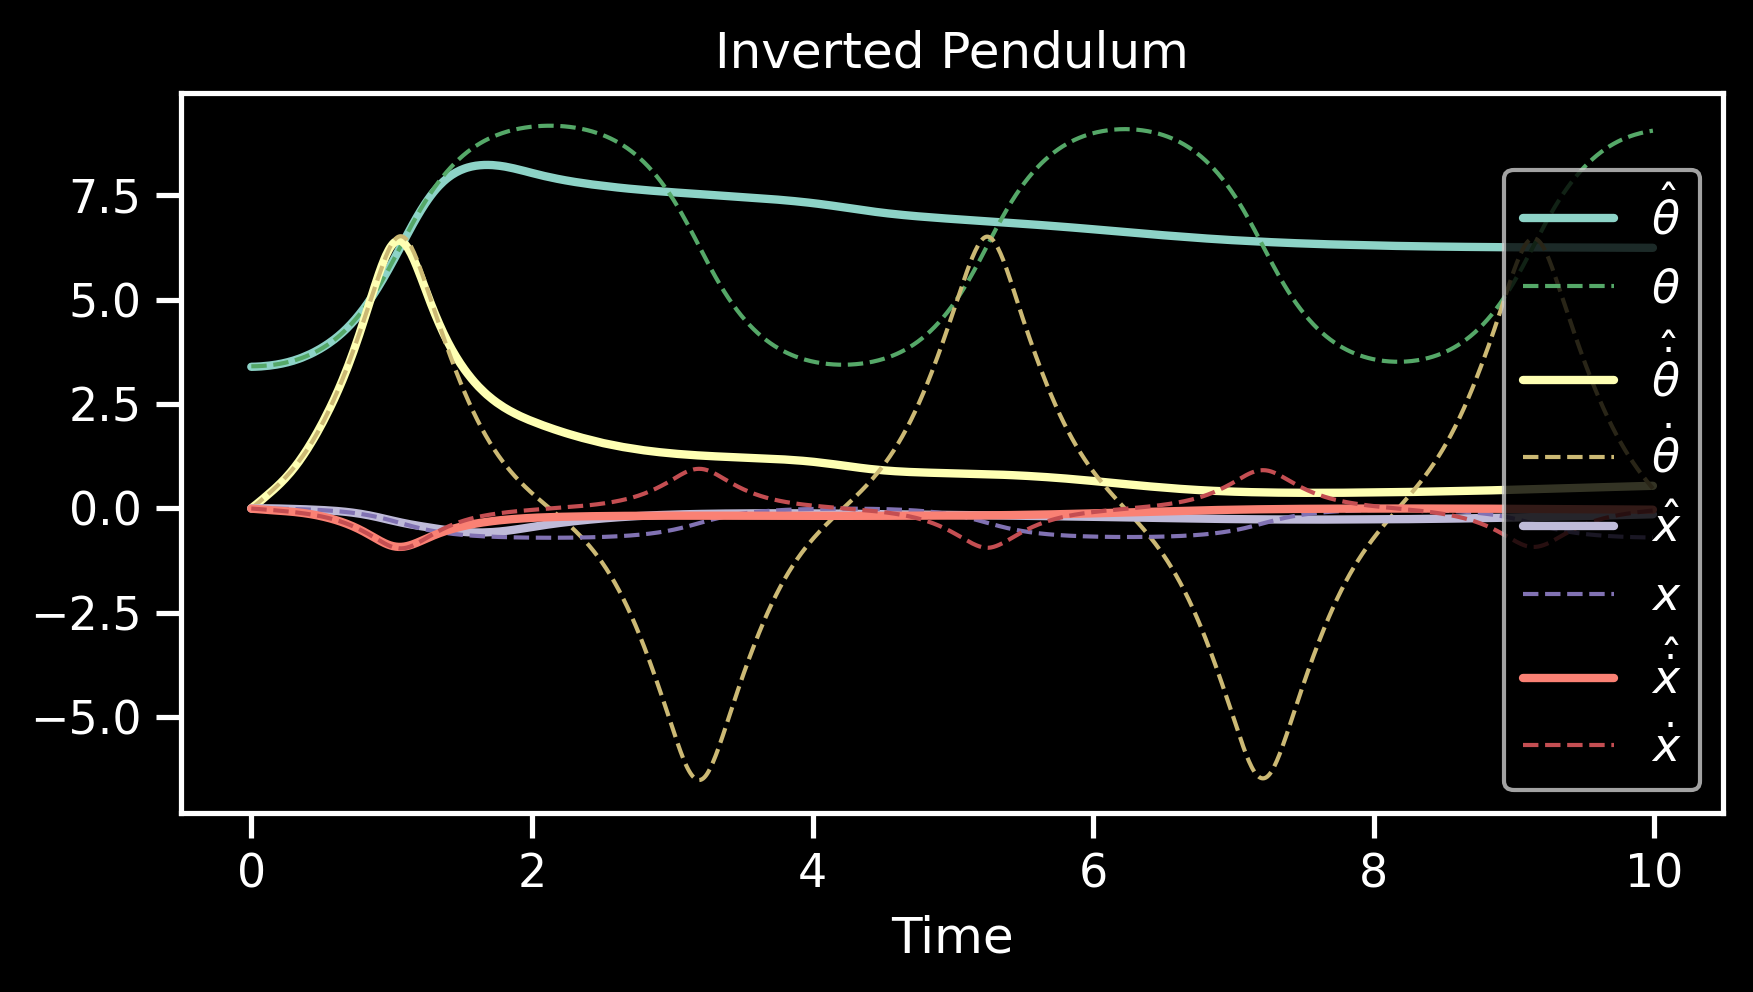
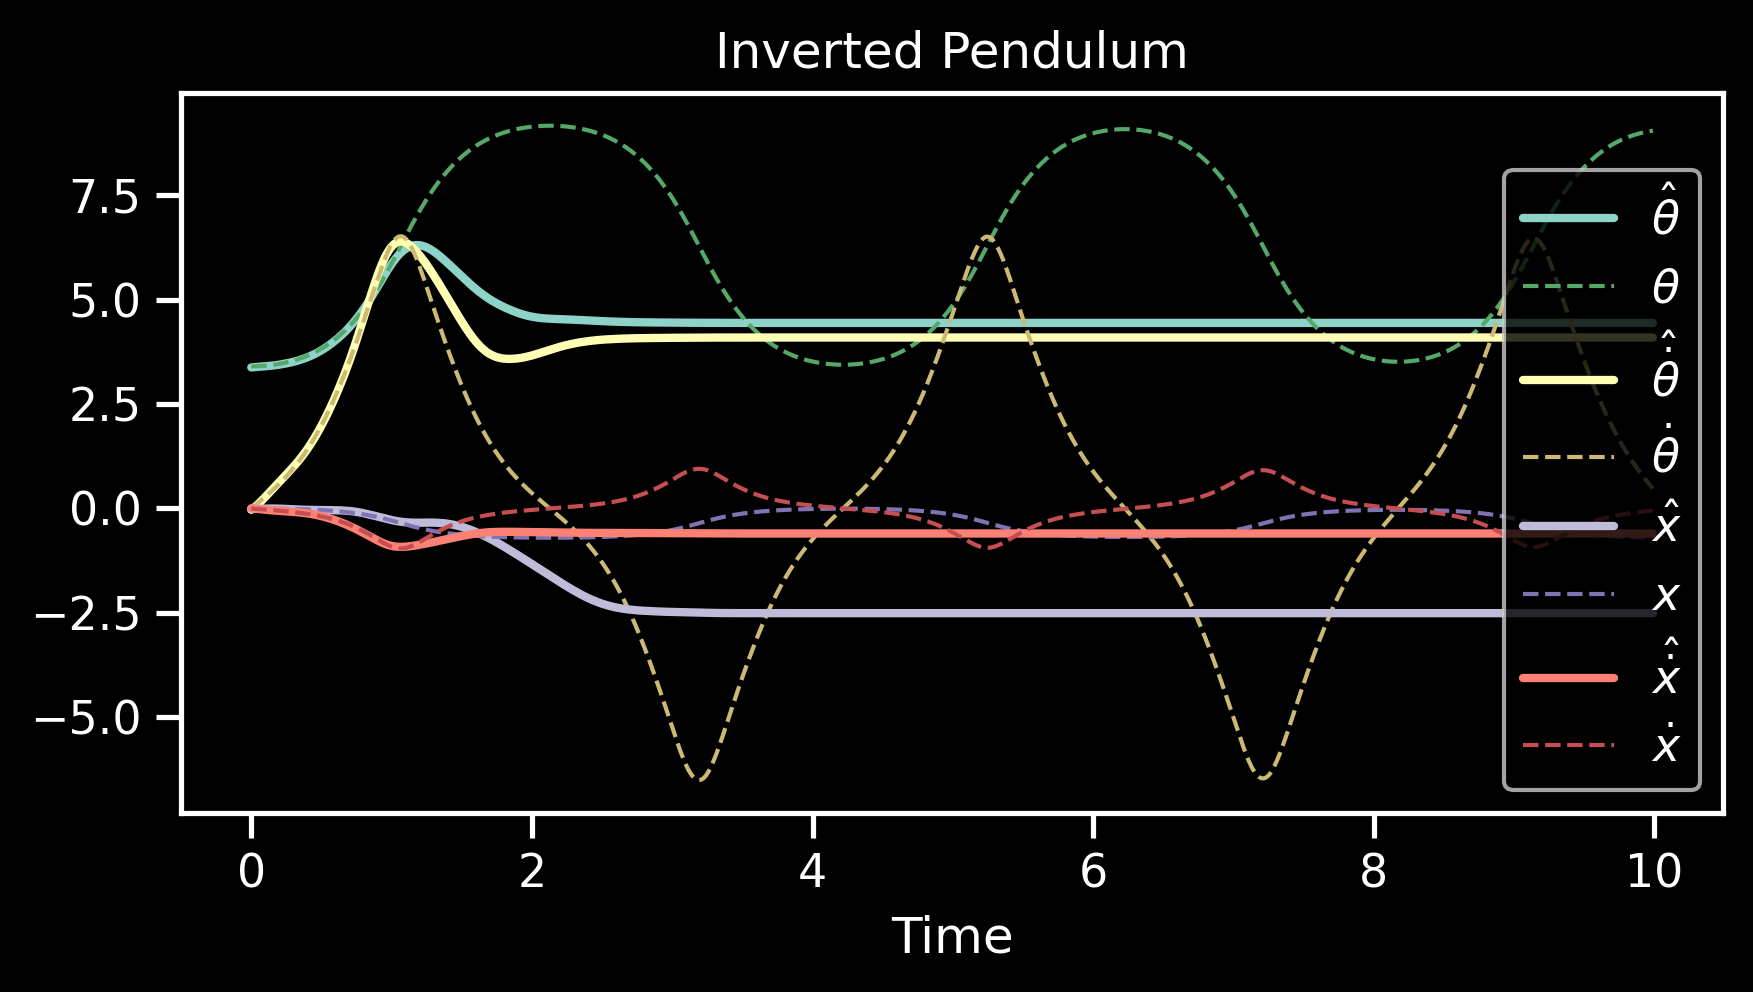
Simple vs augmented method of multipliers

diff --git a/parajax/tests/method_of_multipliers.py b/parajax/tests/method_of_multipliers.py
@@ -1,0 +1,243 @@
+#%%
+import jax
+import jax.numpy as jnp
+import numpy as np
+jax.numpy.set_printoptions(precision=6)
+
+
+
+# %% [markdown]
+
+## Simple vs Augmented Method of Multipliers
+
+# ## References
+# - **Simple method**: Augmenting Physical Models with Deep Networks for Complex Dynamics Forecasting (Yin et al., 2021) (Algorithm 1, page 7)
+# - **Augmented method**: Practical augmented Lagrangian methods for constrained optimization (Birgin and Martinez, 2014) (Algorithm 4.1, page 33)
+
+# ## Conclusions
+# - The augmented method is much more faster to convergence than the simple method
+# - The augmented method enfores equality constraints much much better
+
+
+# Cherry-picked example to highlight the benefits of the augmented method of multipliers from Birgin et al., 2014, which is compared to the simple method from https://arxiv.org/abs/2010.04456, 2021. Potential techniques to add to one's Deep Learning arsenal:  https://gist.github.com/ddrous/cd258baeaebdc29529e329f660ab3760
+
+# The augmented method is much faster, while enforcing the equality constraint h(x,y)=0 in a stronger way.
+
+# %%
+
+@jax.jit
+def f(x):   ## The function to minimize
+    x1, x2 = x
+    return (x1 - 6)**2 + x2**2
+
+@jax.jit
+def h(x):   ## The equality constraint
+    x1, x2 = x
+    return (x2-(x1/4)**2)**2 + ((x1/4)-1)**2 - 1
+
+tau1 = 1e-3 ## Actual learning rate for both methods
+tau2 = 1e-3 ## Multiplicative factor for the penalty term in the simple method, used as tau in the augmented method
+
+nb_iter_out = 200
+nb_iter_in = 100
+tol = 1e-10
+
+@jax.jit
+def inner_train_step(x, lamb, tau1, tau2):
+    return x - tau1 * (lamb*jax.grad(f)(x) + jax.grad(h)(x))
+
+@jax.jit
+def outer_train_step(x, lamb, tau1, tau2):
+    return lamb + tau2 * h(x)
+
+
+lamb = 1.2
+x = jnp.array([0.5, 3.])
+iter_count = 0
+path = [x]
+
+for out_iter in range(nb_iter_out):
+
+    x_old = x
+
+    for in_iter in range(nb_iter_in):
+        x_new = inner_train_step(x, lamb, tau1, tau2)
+
+        if jnp.linalg.norm(x_new - x) < tol:
+            break
+
+        iter_count += 1
+        x = x_new
+        path.append(x)
+
+    lamb = outer_train_step(x, lamb, tau1, tau2)
+
+    if jnp.linalg.norm(x_new - x_old) < tol:
+        break
+
+    print(f"iter {out_iter:-3d} :   x={x}   f(x)={f(x):.6f}     h(x)={h(x):+.6f}    lambda={lamb}")
+
+print(f"\nTotal number of iterations to achieve a tol of {tol} is: {iter_count}")
+
+path = jnp.vstack(path)
+
+# %%
+
+import numpy as np
+import matplotlib.pyplot as plt
+import seaborn as sns
+sns.set(context='notebook', style='ticks',
+        font='sans-serif', font_scale=1, color_codes=True, rc={"lines.linewidth": 2})
+plt.style.use("dark_background")
+from matplotlib.animation import FuncAnimation
+
+def plot_optimisation_path(path, title='Method of Multipliers'):
+
+    # Create a grid of points for contour plot
+    x = np.linspace(0, 10, 100)
+    y = np.linspace(-3, 5, 100)
+    X, Y = np.meshgrid(x, y)
+    Z = f(np.vstack([X.ravel(), Y.ravel()]))
+
+    # Reshape for contour plot
+    Z = Z.reshape(X.shape)
+
+    ## Set the size of the plt
+    plt.figure(figsize=(16, 8))
+
+    # Plot contours
+    plt.contourf(X, Y, Z, levels=30, cmap='grey')
+    plt.colorbar(label='Function Value')
+
+    Z = h(np.vstack([X.ravel(), Y.ravel()]))
+    Z = Z.reshape(X.shape)
+
+    # Plot contours
+    plt.contour(X, Y, Z, levels=4, cmap='Blues')
+    plt.colorbar(label="Constraint's countrours")
+
+    plt.plot(path[:, 0], path[:, 1], 'rX-', lw=3, markevery=100, label='Optimisation path')
+
+    # Add labels and legend
+    plt.title(title)
+    plt.xlabel(r'$x$')
+    plt.ylabel(r'$y$')
+    plt.legend()
+
+    # Show the plot
+    plt.show();
+
+# plot_optimisation_path(path)
+
+# %%
+
+@jax.jit
+def L(x, lamb, rho):
+    return f(x) + 0.5*rho*(h(x) + lamb/rho)**2
+
+@jax.jit
+def inner_train_step_(x, lamb, rho, tau1, tau2):
+    return x - tau1 * jax.grad(L)(x, lamb, rho)
+
+lamb_min, lamb_max = -10, 10
+gamma = 0.95
+
+lamb = 5.
+rho = 1.
+
+x = jnp.array([0.5, 3.])
+path_ = [x]
+iter_count = 0
+
+for k in range(nb_iter_out):
+
+    x_old = x
+
+    for i in range(nb_iter_in):
+        x_new = inner_train_step_(x, lamb, rho, tau1, tau2)
+        
+        if jnp.linalg.norm(x_new - x) < tol:
+            break
+
+        iter_count += 1
+        x = x_new
+        path_.append(x)
+
+    lamb = jnp.clip(lamb + rho*h(x_new), lamb_min, lamb_max)
+
+    norm_h_old = jnp.linalg.norm(h(x_old))
+    norm_h = jnp.linalg.norm(h(x_new))
+
+    if k==0 or norm_h_old < tau2*norm_h:
+        rho = 2*rho
+    else:
+        rho = gamma*rho
+
+    if jnp.linalg.norm(x_new - x_old) < tol:
+        break
+
+    print(f"iter: {k:-3d}   x={x}   f(x)={f(x):.6f}   h(x)={h(x):+.6f}   rho={rho:.6f}    lambda={lamb:.6f}")
+
+
+print(f"\nTotal number of iterations to achieve a tol of {tol} is: {iter_count}")
+
+path_ = jnp.vstack(path_)
+plot_optimisation_path(path_, "Method of Augmented Multipliers")
+
+
+# %%
+
+def animate_optimization_path(paths, labels=["Simple", "Augmented"], title='Simple vs Augmented Multipliers'):
+    # Create a grid of points for contour plot
+    x = np.linspace(0, 10, 100)
+    y = np.linspace(-3, 5, 100)
+    X, Y = np.meshgrid(x, y)
+
+    ## Function to minimize
+    Z = f(np.vstack([X.ravel(), Y.ravel()]))
+    Z = Z.reshape(X.shape)
+
+    ## Constraint
+    Z_ = h(np.vstack([X.ravel(), Y.ravel()]))
+    Z_ = Z_.reshape(X.shape)
+    
+    # Set the size of the plt
+    plt.figure(figsize=(12, 8))
+
+    colors = ['r', 'g', 'b', 'c', 'm', 'y', 'k', 'w']
+    skip = 100      ## TODO: change this for more fluid simulations
+
+    def update(frame):
+        plt.clf()  # Clear the plot for the next frame
+        plt.contourf(X, Y, Z, levels=50, cmap='gray')
+        plt.colorbar(label=r'Function value $f(x,y)$')
+
+        contour = plt.contour(X, Y, Z_, levels=[0], cmap='Blues')
+        plt.clabel(contour, inline=True, fontsize=8, fmt=r'$h(x,y)={:1.0f}$'.format(contour.levels[0]))
+
+        for i, path in enumerate(paths):
+            if frame < len(path):
+                plt.plot(path[:frame*skip, 0], path[:frame*skip, 1], '-', color=colors[i%8], lw=4, markevery=100, label=labels[i])
+
+                x_val, y_val = path[frame*skip, 0], path[frame*skip, 1]
+                f_val = f(np.array([x_val, y_val]))
+                h_val = h(np.array([x_val, y_val]))
+
+                plt.text(0.5+i*(3.5), 4.5+i*(-4.5-3), r'$f*={:.3f}, \quad  h*={:+.5f}$'.format(f_val, h_val), fontsize=20, color=colors[i%8], ha='left', va='bottom', weight='bold')
+
+        plt.title(title)
+        plt.xlabel(r'$x$')
+        plt.ylabel(r'$y$')
+        plt.legend()
+
+    frames = max(len(path) for path in paths)//skip
+    ani = FuncAnimation(plt.gcf(), update, frames=frames, interval=1000, repeat=False)
+
+    duration = 5  # seconds
+
+    # Save the animation as a GIF
+    ani.save("data/multipliers.gif", writer='ffmpeg', fps=frames//duration, dpi=300)
+
+    plt.show()
+
+animate_optimization_path([path[:5000], path_[:5000]], labels=["Simple", "Augmented"], title='Simple vs. Augmented Method of Multipliers')

diff --git a/examples/pendulums/02_pendulums_parajax.py b/examples/pendulums/02_pendulums_parajax.py
@@ -14,7 +14,7 @@ import jax
 print("Available devices:", jax.devices())
 
 from jax import config
-config.update("jax_debug_nans", True)
+# config.update("jax_debug_nans", True)
 
 import jax.numpy as jnp
 import numpy as np
@@ -52,8 +52,8 @@ init_lr = 5e-4
 decay_rate = 0.9
 
 ## Training hps
-print_every = 1000
-nb_epochs = 500
+print_every = 100
+nb_epochs = 5000
 batch_size = 500
 
 ## Plotting hps 
@@ -155,30 +155,29 @@ class Encoder(eqx.Module):
 
 class Processor(eqx.Module):
     layers: list
+    # alpha: jnp.ndarray
+    # beta: jnp.ndarray
     matrix: jnp.ndarray
 
     def __init__(self, in_out_size=2, key=None):
         keys = get_new_key(key, num=3)
-        self.layers1 = [eqx.nn.Linear(in_out_size+1, 50, key=keys[0]), jax.nn.tanh,
+        self.layers = [eqx.nn.Linear(in_out_size+1, 50, key=keys[0]), jax.nn.tanh,
                         eqx.nn.Linear(50, 50, key=keys[1]), jax.nn.tanh,
                         eqx.nn.Linear(50, in_out_size, key=keys[2])]
 
-        self.layers2 = [eqx.nn.Linear(in_out_size+1, 50, key=keys[2]), jax.nn.tanh,
-                        eqx.nn.Linear(50, 50, key=key), jax.nn.tanh,
-                        eqx.nn.Linear(50, in_out_size, key=keys[0])]
-
-        self.alpha = jax.random.uniform(keys[2], (2,))
+        # self.alpha = jax.random.uniform(keys[2], (1,))
+        # self.beta = jax.random.uniform(keys[3], (1,))
+        self.matrix = jax.random.normal(keys[2], (4, 4))
 
     def __call__(self, x, t):
-        y1 = jnp.concatenate([jnp.broadcast_to(t, (1,)), x], axis=0)
-        for layer in self.layers1:
-            y1 = layer(y1)
+        # matrix = jnp.array([[0, 1, 0, 0], [self.alpha[0], 0, 0, 0],
+        #                     [0, 0, 0, 1], [0, 0, self.beta[0], 0]])
 
-        y2 = jnp.concatenate([jnp.broadcast_to(t, (1,)), x], axis=0)
-        for layer in self.layers2:
-            y2 = layer(y2)
+        y = jnp.concatenate([jnp.broadcast_to(t, (1,)), x], axis=0)
+        for layer in self.layers:
+            y = layer(y)
 
-        return self.alpha[0]*y1 + self.alpha[1]*y2
+        return self.matrix@x + y
 
 
 
@@ -267,15 +266,14 @@ def train_step(params, static, batch, opt_state):
 
 nb_examples = X1.shape[0]
 
-# sched = optax.exponential_decay(init_lr, nb_epochs*int(np.ceil(nb_examples//batch_size)), decay_rate)
-## Linear scheduler divide by 10 every 25% epochs
-# sched = optax.linear_schedule(init_lr, 0, nb_epochs*int(np.ceil(nb_examples//batch_size)), 0.25)
 total_steps = nb_epochs*int(np.ceil(nb_examples//batch_size))
-sched = optax.piecewise_constant_schedule(init_value=init_lr,
-                                            boundaries_and_scales={int(total_steps*0.25):0.1, 
-                                                                    int(total_steps*0.5):0.1,
-                                                                    int(total_steps*0.75):0.1})
 
+sched = optax.exponential_decay(init_lr, total_steps, decay_rate)
+# sched = optax.linear_schedule(init_lr, 0, total_steps, 0.25)
+# sched = optax.piecewise_constant_schedule(init_value=init_lr,
+#                                             boundaries_and_scales={int(total_steps*0.25):0.1, 
+#                                                                     int(total_steps*0.5):0.1,
+#                                                                     int(total_steps*0.75):0.1})
 
 opt = optax.adam(sched)
 opt_state = opt.init(params)
@@ -412,7 +410,7 @@ def test_processor(model, X_latent, t):
 
 # X_latent = jnp.array([0.0, 0.1, 0.0, 0.1])
 X_latent = jax.random.uniform(get_new_key(SEED), (4,))
-test_t = jnp.linspace(0, 100, 1001)
+test_t = jnp.linspace(0, 10, 1001)
 
 X_latent_final = test_processor(model, X_latent, test_t)
 labels = [str(i) for i in range(X_latent_final.shape[-1])]

diff --git a/parajax/utils.py b/parajax/utils.py
@@ -2,6 +2,13 @@
 import time
 import jax
 
+import matplotlib.pyplot as plt
+import seaborn as sns
+sns.set(context='notebook', style='ticks',
+        font='sans-serif', font_scale=1, color_codes=True, rc={"lines.linewidth": 2})
+plt.style.use("dark_background")
+
+
 def seconds_to_hours(seconds):
     seconds = int(seconds)
     hours = seconds // 3600
@@ -24,13 +31,6 @@ def get_new_key(key=None, num=1):
 
 ## Wrapper function for matplotlib and seaborn
 def sbplot(*args, ax=None, figsize=(6,3.5), x_label=None, y_label=None, title=None, x_scale='linear', y_scale='linear', xlim=None, ylim=None, **kwargs):
-
-    import matplotlib.pyplot as plt
-    import seaborn as sns
-    sns.set(context='notebook', style='ticks',
-            font='sans-serif', font_scale=1, color_codes=True, rc={"lines.linewidth": 2})
-    plt.style.use("dark_background")
-
     if ax==None:
         _, ax = plt.subplots(1, 1, figsize=figsize)
     # sns.despine(ax=ax)
